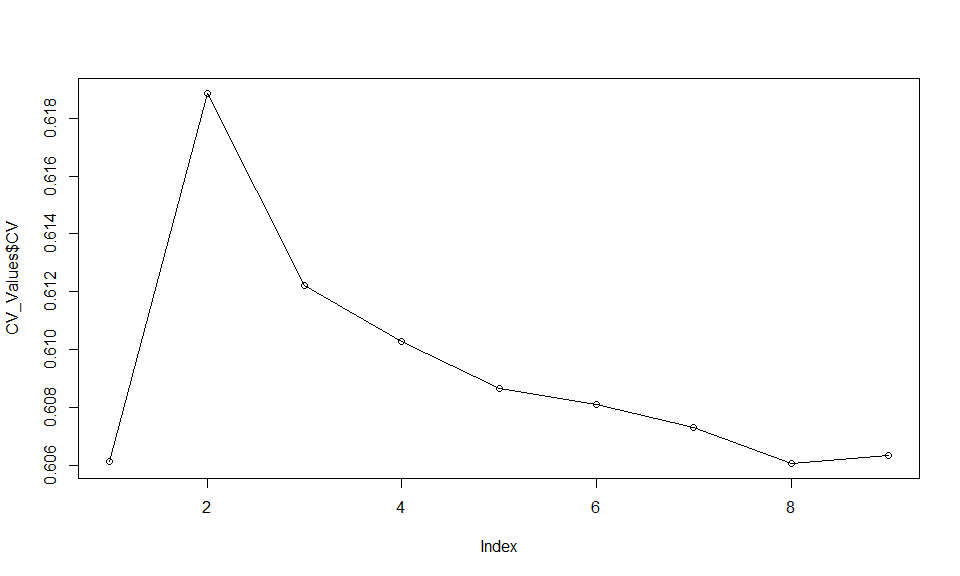
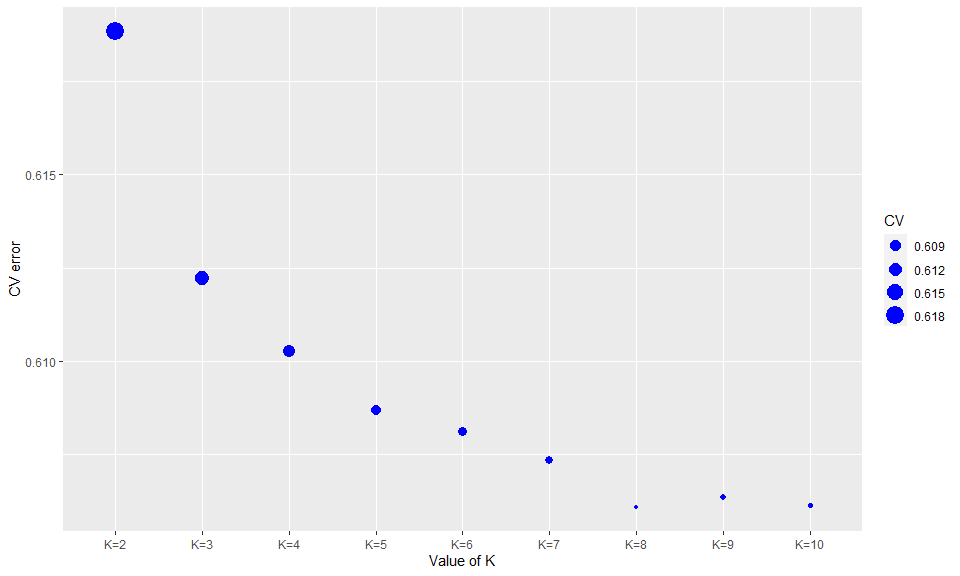
July 8 update-2

diff --git a/A-Nguluma/Popolation-Structure-with-Admixture-and-R.md b/A-Nguluma/Popolation-Structure-with-Admixture-and-R.md
@@ -138,22 +138,13 @@ levels(CV_Values$K_value)
 
 CV_Values$K_value <- factor(CV_Values$K_value, levels = c("K=2","K=3","K=4","K=5","K=6","K=7","K=8","K=9","K=10"))
 
-plot(CV_Values$CV, type = "o")
+#plot(CV_Values$CV, type = "o")
 
 # in ggplot
 require(ggplot2)
 ```
 
     ## Loading required package: ggplot2
-
-<div class="figure" style="text-align: center">
-
-<img src="Popolation-Structure-with-Admixture-and-R_files/figure-gfm/cv-fig-1-1.png" alt="Graph of CV values!" width="100%" />
-<p class="caption">
-Graph of CV values!
-</p>
-
-</div>
 
 ``` r
 #par(mar = c(4, 4, .1, .1))
@@ -168,7 +159,7 @@ print(cv_plot)
 
 <div class="figure" style="text-align: center">
 
-<img src="Popolation-Structure-with-Admixture-and-R_files/figure-gfm/cv-fig-1-2.png" alt="Graph of CV values!" width="100%" />
+<img src="Popolation-Structure-with-Admixture-and-R_files/figure-gfm/cv-fig-1-1.png" alt="Graph of CV values!" width="100%" />
 <p class="caption">
 Graph of CV values!
 </p>
@@ -695,19 +686,7 @@ barplot(t(as.matrix(pop_all)),
         border=NA, axes = FALSE, axisnames = F,
         las=2,cex.names=0.6, 
         main = "Structure like plot of Athumani Goat data at K value of 9 with data filtered at LD=0.02")
-```
 
-<div class="figure" style="text-align: center">
-
-<img src="Popolation-Structure-with-Admixture-and-R_files/figure-gfm/structure-fig-2-1.png" alt="Structure like plot of Athumani Goat data at K value of 9 with data filtered at LD=0.02" width="100%" />
-<p class="caption">
-Structure like plot of Athumani Goat data at K value of 9 with data
-filtered at LD=0.02
-</p>
-
-</div>
-
-``` r
 #barplot(t(as.matrix(pop_all)),col=rainbow(C),xlab="", ylab="", border=NA, axes = FALSE, axisnames = F)
 
 #svg(filename = "results/K-8-structure-plot.svg", width = 15, height = 10)
